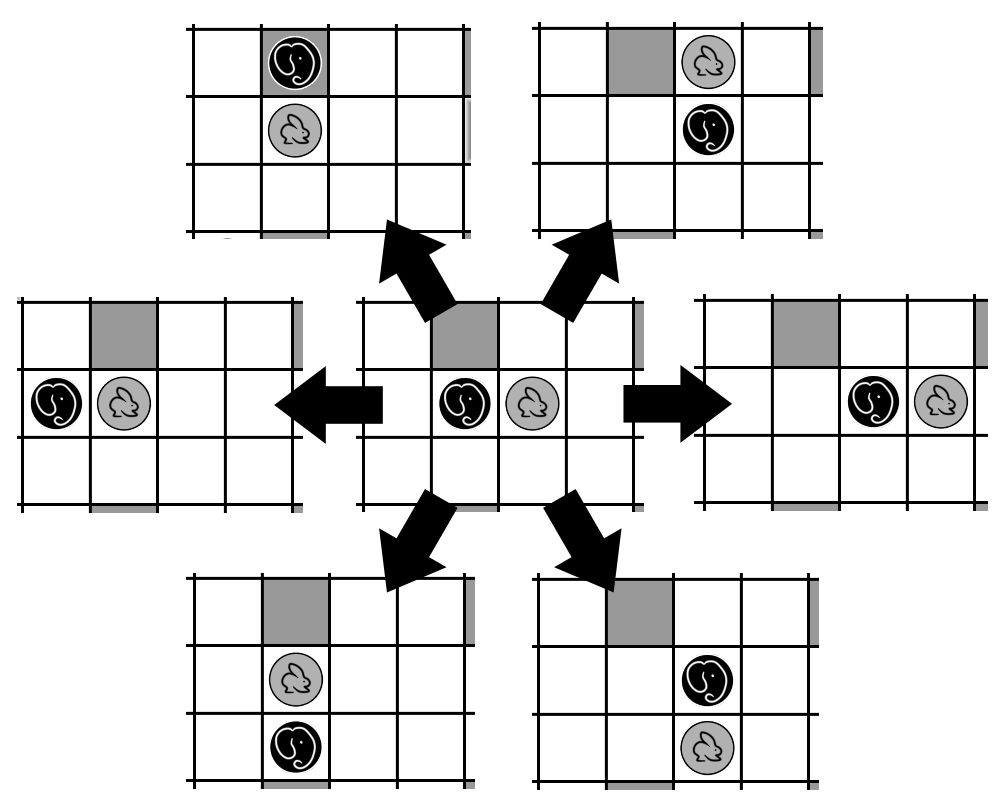
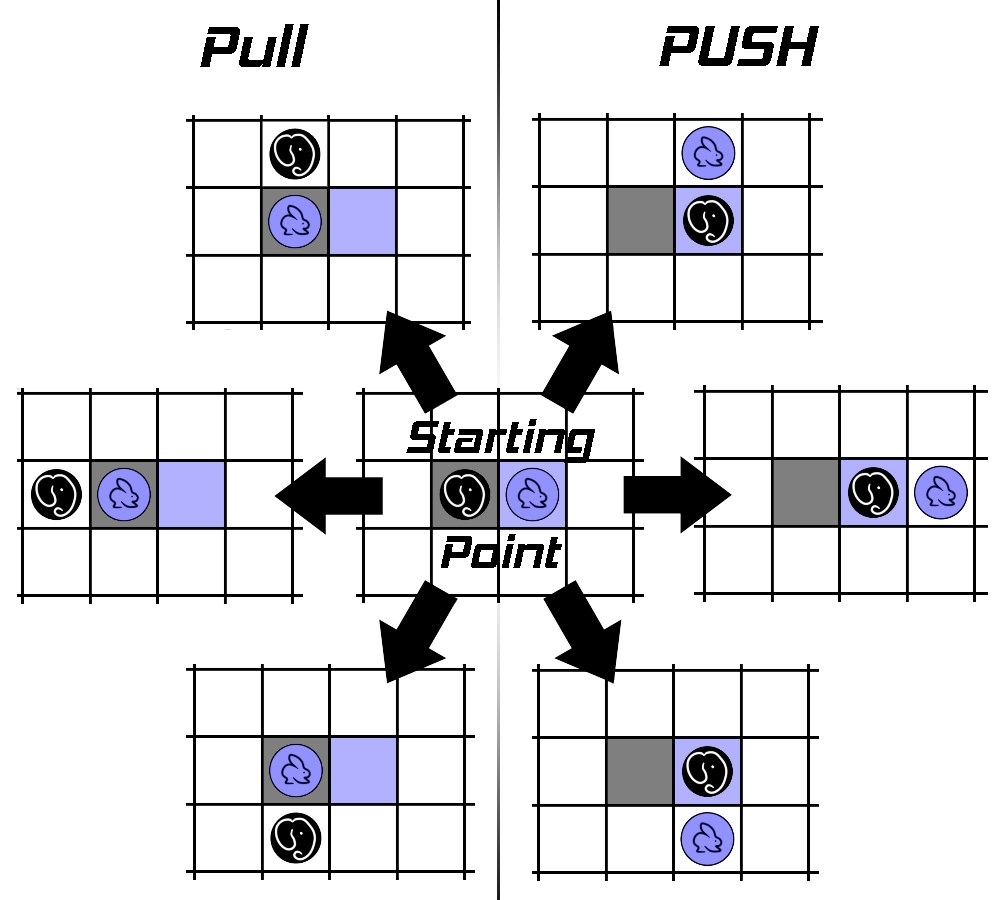
Updated Game Rules
Changed the pictures and their legend

Changed region(s): [[0.0, 0.0309, 0.992, 0.9889], [0.682, 0.618, 0.992, 0.6799], [0.0, 0.618, 0.31, 0.6799]]

diff --git a/Docs/Report 1 Put text here/1_Presentation/1.1_Arimaa_rules_Gabriel/ArimaaRules.tex b/Docs/Report 1 Put text here/1_Presentation/1.1_Arimaa_rules_Gabriel/ArimaaRules.tex
@@ -3,19 +3,21 @@ Arimaa is played on a board composed of 64 tiles, like a chess board. Like in ch
 \begin{figure}[!h]
 \centering
 \includegraphics[width=\textwidth]{1_Presentation/1.1_Arimaa_rules_Gabriel/Pictures/Pieces.png}
-\caption{\label{fig:pieces}The different piece types in Arimaa.}
+\caption{The different piece types in Arimaa.}
+\label{fig:pieces}
 \end{figure}
 
 Each player, starting with the gold player, places all of his pieces on the two back rows of his side. Then, the gold player takes the first turn.
 On his turn, each player disposes of four moves. He or she can use these moves on a single piece, or on how many pieces as they desire.
 
 All pieces can move on an adjacent square (but not diagonally), except for the rabbit which cannot move backwards.
-A piece can instead use two moves to push or pull a weaker adjacent enemy piece, as shown in \ref{fig:displace}.
+A piece can instead use two moves to push or pull a weaker adjacent enemy piece, as shown in figure \ref{fig:displace}.
 
 \begin{figure}[!h]
 \centering
-\includegraphics[width=0.5\textwidth]{1_Presentation/1.1_Arimaa_rules_Gabriel/Pictures/Displace.png}
-\caption{\label{fig:displace}The different ways you can push or pull a weaker enemy piece.}
+\includegraphics[width=0.6\textwidth]{1_Presentation/1.1_Arimaa_rules_Gabriel/Pictures/Displace.png}
+\caption{The different ways you can push or pull a weaker enemy piece.}
+\label{fig:displace}
 \end{figure}
 
 A piece sitting next to a stronger enemy piece is frozen. When a piece is frozen, it cannot move. As shown in figure \ref{fig:freeze}, a piece cannot be frozen while there is an ally piece beside it.
@@ -23,7 +25,8 @@ A piece sitting next to a stronger enemy piece is frozen. When a piece is frozen
 \begin{figure}[!h]
 \centering
 \includegraphics[width=0.5\textwidth]{1_Presentation/1.1_Arimaa_rules_Gabriel/Pictures/Freeze.png}
-\caption{\label{fig:freeze}Example of the freezing mechanic.}
+\caption[Example of the freezing mechanic.]{Example of the freezing mechanic. When the two rabbits are together, the one next to the elephant is no longer frozen.}
+\label{fig:freeze}
 \end{figure}
 
 There are four traps on the board. As shown in figure \ref{fig:trap}, any piece sitting on a trap with no ally piece next to it dies.
@@ -31,7 +34,8 @@ There are four traps on the board. As shown in figure \ref{fig:trap}, any piece 
 \begin{figure}[!h]
 \centering
 \includegraphics[width=0.5\textwidth]{1_Presentation/1.1_Arimaa_rules_Gabriel/Pictures/Trap.png}
-\caption{\label{fig:trap}Example of the traps mechanic.}
+\caption[Example of the traps mechanic.]{Example of the traps mechanic. As soon as there is no other ally pieces next to ther rabbit standing on the trap, it dies.}
+\label{fig:trap}
 \end{figure}
 
 There are three ways to win the game :
